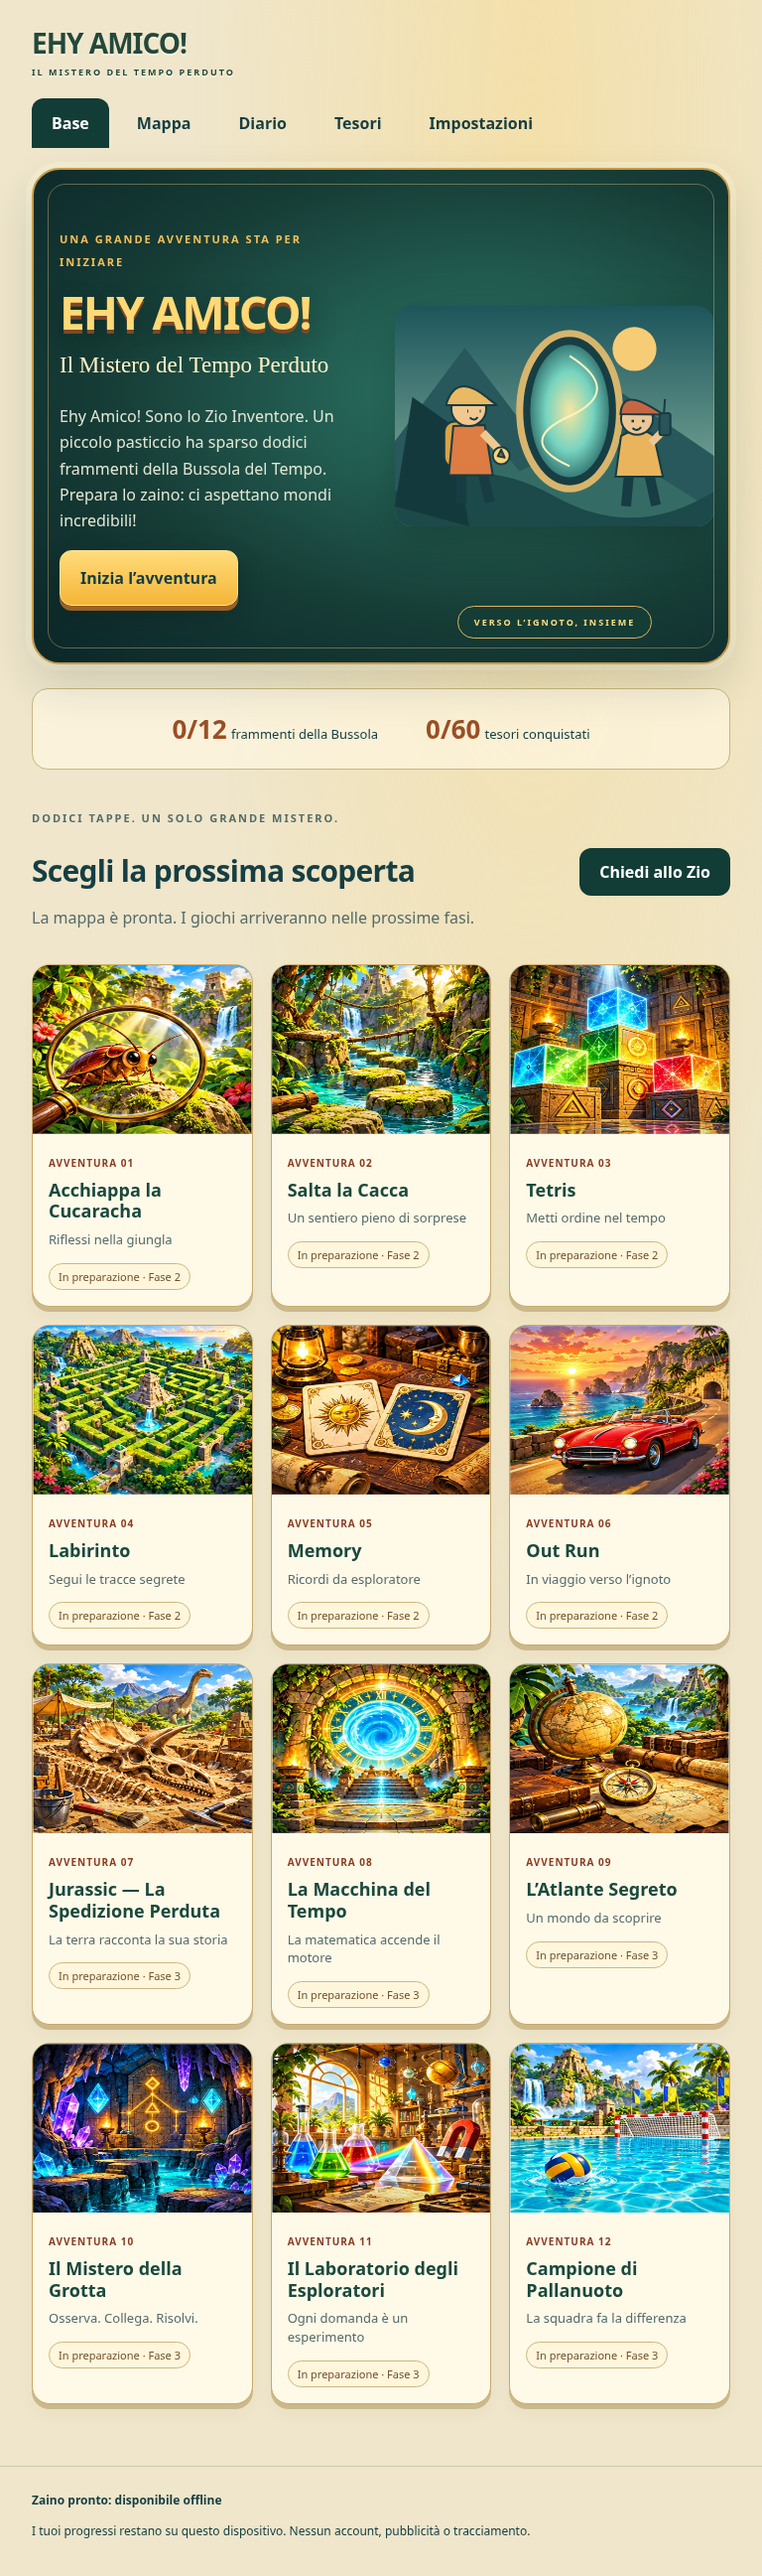
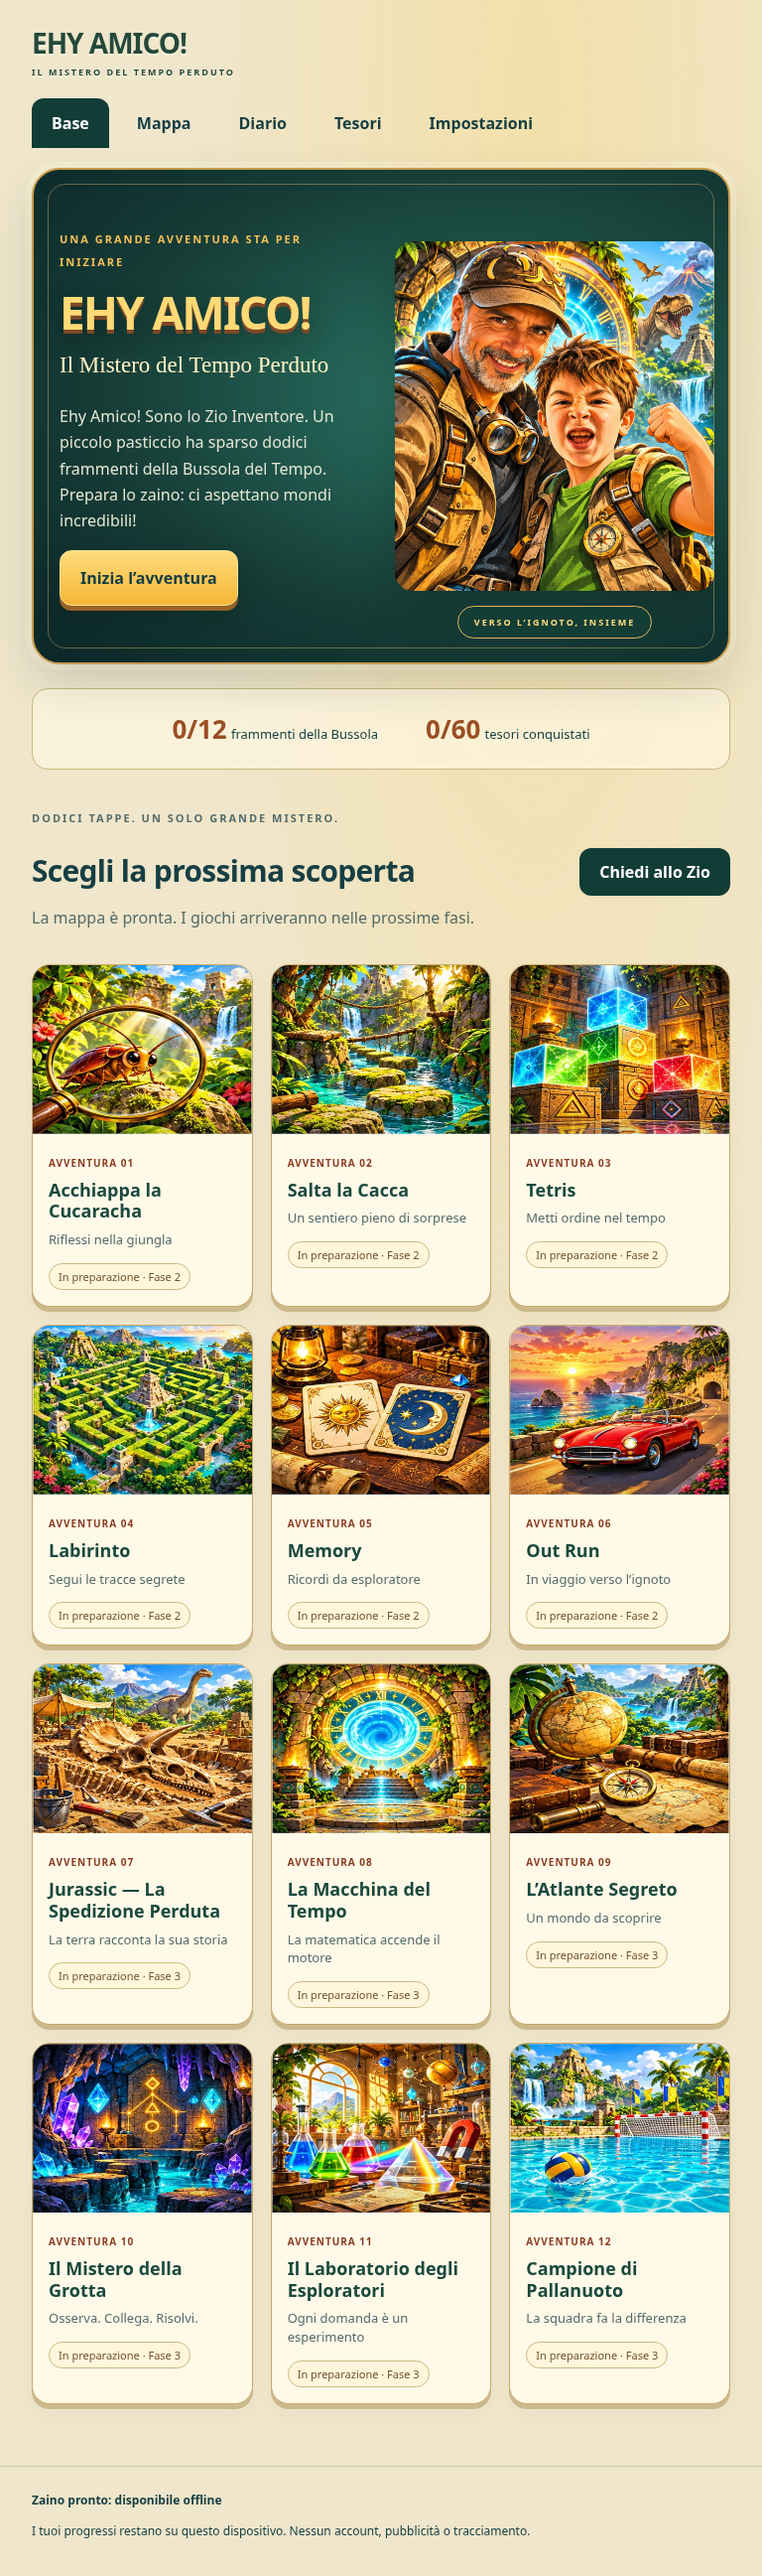
Integra l’illustrazione approvata dei protagonisti e verifica l’offline

Changed region(s): [[0.5, 0.0937, 0.9375, 0.2498]]

diff --git a/tests/browser/app.spec.js b/tests/browser/app.spec.js
@@ -227,3 +227,29 @@ test('nuove illustrazioni e percorso disponibili offline', async ({page,context}
  await page.getByRole('link',{name:'Tesori',exact:true}).click();
  await expect(page.locator('.fragment')).toHaveCount(12);
 });
+
+for (const width of [360, 768, 1280]) {
+  test('illustrazione approvata completa e offline ' + width, async ({page, context}) => {
+    await page.setViewportSize({width, height:1024});
+    await page.goto('./');
+    const hero = page.locator('.hero-portrait');
+    await expect(hero).toHaveAttribute('src','./assets/hero-approved.jpg');
+    await expect.poll(()=>hero.evaluate(img=>img.complete && img.naturalWidth===1097 && img.naturalHeight===1200)).toBe(true);
+    expect(await hero.evaluate(img=>getComputedStyle(img).objectFit)).toBe('contain');
+    const bounds=await hero.boundingBox();
+    const frame=await page.locator('.hero-visual').boundingBox();
+    expect(bounds.x).toBeGreaterThanOrEqual(frame.x);
+    expect(bounds.x+bounds.width).toBeLessThanOrEqual(frame.x+frame.width+1);
+    expect(bounds.y).toBeGreaterThanOrEqual(frame.y);
+    expect(bounds.y+bounds.height).toBeLessThanOrEqual(frame.y+frame.height+1);
+    await page.screenshot({path:'work/hero-approved-'+width+'.png',fullPage:true,animations:'disabled'});
+    await expect(page.locator('#offline')).toContainText('Zaino pronto');
+    await expect.poll(()=>page.evaluate(()=>!!navigator.serviceWorker.controller)).toBe(true);
+    const before=await hero.evaluate(async img=>Array.from(new Uint8Array(await crypto.subtle.digest('SHA-256',await (await fetch(img.src)).arrayBuffer()))).map(n=>n.toString(16).padStart(2,'0')).join(''));
+    await context.setOffline(true);
+    await page.reload();
+    await expect.poll(()=>hero.evaluate(img=>img.complete && img.naturalWidth===1097)).toBe(true);
+    const after=await hero.evaluate(async img=>Array.from(new Uint8Array(await crypto.subtle.digest('SHA-256',await (await fetch(img.src)).arrayBuffer()))).map(n=>n.toString(16).padStart(2,'0')).join(''));
+    expect(after).toBe(before);
+  });
+}

diff --git a/sw.js b/sw.js
@@ -1,5 +1,5 @@
 // Generato da npm run build. La cache è isolata per app e sottopercorso.
-const ASSETS=["index.html","manifest.webmanifest","js/app.js","js/artwork.js","js/catalog.js","js/progress.js","js/pwa.js","js/session.js","css/app.css","assets/adventure-atlas.webp","assets/atlante.svg","assets/carte.svg","assets/cristalli.svg","assets/fossili.svg","assets/giungla.svg","assets/grotta.svg","assets/hero.svg","assets/labirinto.svg","assets/laboratorio.svg","assets/medal.svg","assets/piscina.svg","assets/portale.svg","assets/sentiero.svg","assets/strada.svg","icons/compass.svg","icons/icon-192.png","icons/icon-512.png","icons/maskable-512.png"],PREFIX='ehy-amico:'+new URL(self.registration.scope).pathname+':',CACHE=PREFIX+'b87b96231f20aee6';
+const ASSETS=["index.html","manifest.webmanifest","js/app.js","js/artwork.js","js/catalog.js","js/progress.js","js/pwa.js","js/session.js","css/app.css","assets/adventure-atlas.webp","assets/atlante.svg","assets/carte.svg","assets/cristalli.svg","assets/fossili.svg","assets/giungla.svg","assets/grotta.svg","assets/hero-approved.jpg","assets/hero.svg","assets/labirinto.svg","assets/laboratorio.svg","assets/medal.svg","assets/piscina.svg","assets/portale.svg","assets/sentiero.svg","assets/strada.svg","icons/compass.svg","icons/icon-192.png","icons/icon-512.png","icons/maskable-512.png"],PREFIX='ehy-amico:'+new URL(self.registration.scope).pathname+':',CACHE=PREFIX+'884a0091f8d4d2a2';
 self.addEventListener('install',event=>event.waitUntil(caches.open(CACHE).then(cache=>cache.addAll(ASSETS.map(path=>new Request(new URL(path,self.registration.scope),{cache:'reload'}))))));
 self.addEventListener('message',event=>{if(event.data?.type==='ACTIVATE')self.skipWaiting()});
 self.addEventListener('activate',event=>event.waitUntil((async()=>{for(const key of await caches.keys())if(key.startsWith(PREFIX)&&key!==CACHE)await caches.delete(key);await self.clients.claim()})()));

diff --git a/js/artwork.js b/js/artwork.js
@@ -1,8 +1,8 @@
-// Sostituire src con l’asset approvato solo dopo aver ricevuto il file originale dell’illustrazione.
+// Asset approvato fornito dall’utente, conservato senza ricompressione o ritaglio.
 export const HERO_ART = Object.freeze({
-  src: "./assets/hero.svg",
-  alt: "Illustrazione provvisoria: Esploratore e Zio Inventore davanti al portale del tempo.",
+  src: "./assets/hero-approved.jpg",
+  alt: "Lo Zio Inventore e il giovane Esploratore con zaino e bussola davanti al portale del tempo, tra dinosauri e antiche rovine.",
   width: 1097,
   height: 1200,
-  approved: false,
+  approved: true,
 });

diff --git a/docs/RESTYLING.md b/docs/RESTYLING.md
@@ -2,11 +2,11 @@
 
 Base: `main`, commit `d8e4c80`. Branch: `codex/restyling-avventura`.
 
-## Stato: revisione grafica, immagine principale ancora da integrare
+## Illustrazione principale approvata integrata
 
-L’illustrazione approvata dei protagonisti è visibile nella conversazione ma non è stata esposta come file scaricabile nell’ambiente. Non è stata ricreata, sostituita con una sua imitazione o dichiarata integrata. La home usa ancora `assets/hero.svg`, l’illustrazione provvisoria della Fase 1. Occorre fornire il file PNG/JPG/WebP dell’illustrazione approvata prima di completare questa attività.
[1 lines of base64/hex data omitted]
 
-Lo spazio è pronto: `js/artwork.js` centralizza sorgente, testo alternativo e dimensioni. Quando il file sarà disponibile, salvarne una versione WebP in `assets/hero-approved.webp`, aggiornare `HERO_ART.src`, il testo alternativo e `approved`, quindi rigenerare la cache e ripetere i controlli su telefono/tablet. Nessun caricamento remoto a runtime. La hero usa `object-fit: contain`, senza crop e senza sovrapporre testo ai volti: il ritratto completo resta nel proprio pannello anche su schermi piccoli.
+`js/artwork.js` centralizza sorgente, testo alternativo e dimensioni. La hero usa `object-fit: contain`, senza crop e senza sovrapporre testo ai volti: il ritratto completo resta nel proprio pannello anche su schermi piccoli. Titolo e pulsante sono testo HTML accessibile. Il JPEG è incluso nella cache versionata, senza richieste remote a runtime. L’illustrazione provvisoria non viene più usata dalla home.
 
 ## Interventi
 
@@ -24,10 +24,10 @@ Nessuna fotografia o informazione personale aggiunta. La risorsa generata raffig
 
 ## Verifiche
 
-- `npm run build`: precache aggiornato con impronta dei contenuti, inclusi atlante, medaglia e configurazione della hero.
+- `npm run build`: precache aggiornato con impronta dei contenuti, inclusi JPEG approvato, atlante, medaglia e configurazione della hero.
 - `npm test`: 7 test logica/PWA superati.
-- `CHROMIUM_PATH=/usr/bin/chromium npx playwright test`: 12 scenari browser superati, compresi offline, aggiornamento reale del worker, persistenza, compatibilità dell’ID `car`, 12 frammenti, medaglie, cambio percorso/griglia, touch emulato e responsive.
-- Screenshot home a 360/768/1280 px; mappa, diario e tesori a 360/768/1024 px, senza overflow della pagina. Controllo visivo delle schermate tablet e telefono.
+- `CHROMIUM_PATH=/usr/bin/chromium npx playwright test`: 15 scenari browser superati, compresi offline, aggiornamento reale del worker, persistenza, compatibilità dell’ID `car`, 12 frammenti, medaglie, cambio percorso/griglia, touch emulato e responsive.
+- Screenshot home a 360/768/1280 px; mappa, diario e tesori a 360/768/1024 px, senza overflow della pagina. Controllo visivo delle schermate tablet, telefono e desktop. Tre scenari dedicati verificano dimensioni naturali, contenimento completo nel pannello e caricamento offline del JPEG con lo stesso SHA-256 del caricamento online.
 - `git diff --check`.
 
-I test utilizzano Chromium su Linux e touch emulato. Da verificare su dispositivi reali: installazione iOS/Android, modalità standalone, rotazione e ripresa dal background. Da verificare dopo aver ricevuto il file: resa e visibilità effettiva dei protagonisti dell’illustrazione definitiva. Le meccaniche di gioco restano fuori dall’attività.
+I test utilizzano Chromium su Linux e touch emulato. Da verificare su dispositivi reali: installazione iOS/Android, modalità standalone, rotazione e ripresa dal background. Le meccaniche di gioco restano fuori dall’attività.
